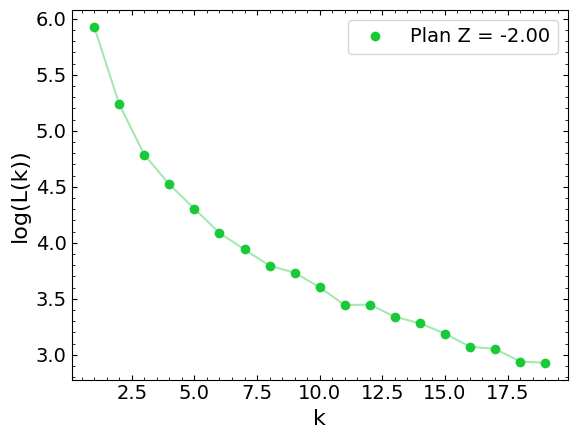
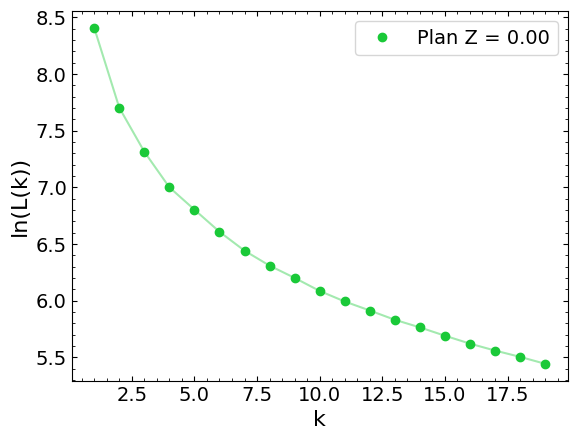
log to ln

diff --git a/TimesSeriesDataSets/PH_method.py b/TimesSeriesDataSets/PH_method.py
@@ -376,7 +376,7 @@ def plot_LK(name, k, l_of_k, height, best=True):
     plt.plot(k, l_of_k, linestyle="-", color=PALETTEB[2], alpha=0.4)
     plt.plot(k, l_of_k, marker='o', linestyle='', color=PALETTEB[2], label=f"Plan Z = {height:.2f}")
     plt.xlabel("k", fontsize=16)
-    plt.ylabel("log(L(k))", fontsize=16)
+    plt.ylabel("ln(L(k))", fontsize=16)
     plt.legend(fontsize=14)
     plt.minorticks_on()
     plt.tick_params(axis="both", which="both", direction="in", top=True, right=True, labelsize=14)
@@ -396,7 +396,7 @@ def plot_LK_2D(name, k, l_of_k, height, best=True):
     plt.plot(k, l_of_k, linestyle="-", color=PALETTEB[3], alpha=0.4)
     plt.plot(k, l_of_k, marker='o', linestyle='', color=PALETTEB[3], label=f"Plan Z = {height:.2f}")
     plt.xlabel("k", fontsize=16)
-    plt.ylabel("log(L(k))", fontsize=16)
+    plt.ylabel("ln(L(k))", fontsize=16)
     plt.legend(fontsize=14)
     plt.minorticks_on()
     plt.tick_params(axis="both", which="both", direction="in", top=True, right=True, labelsize=14)
